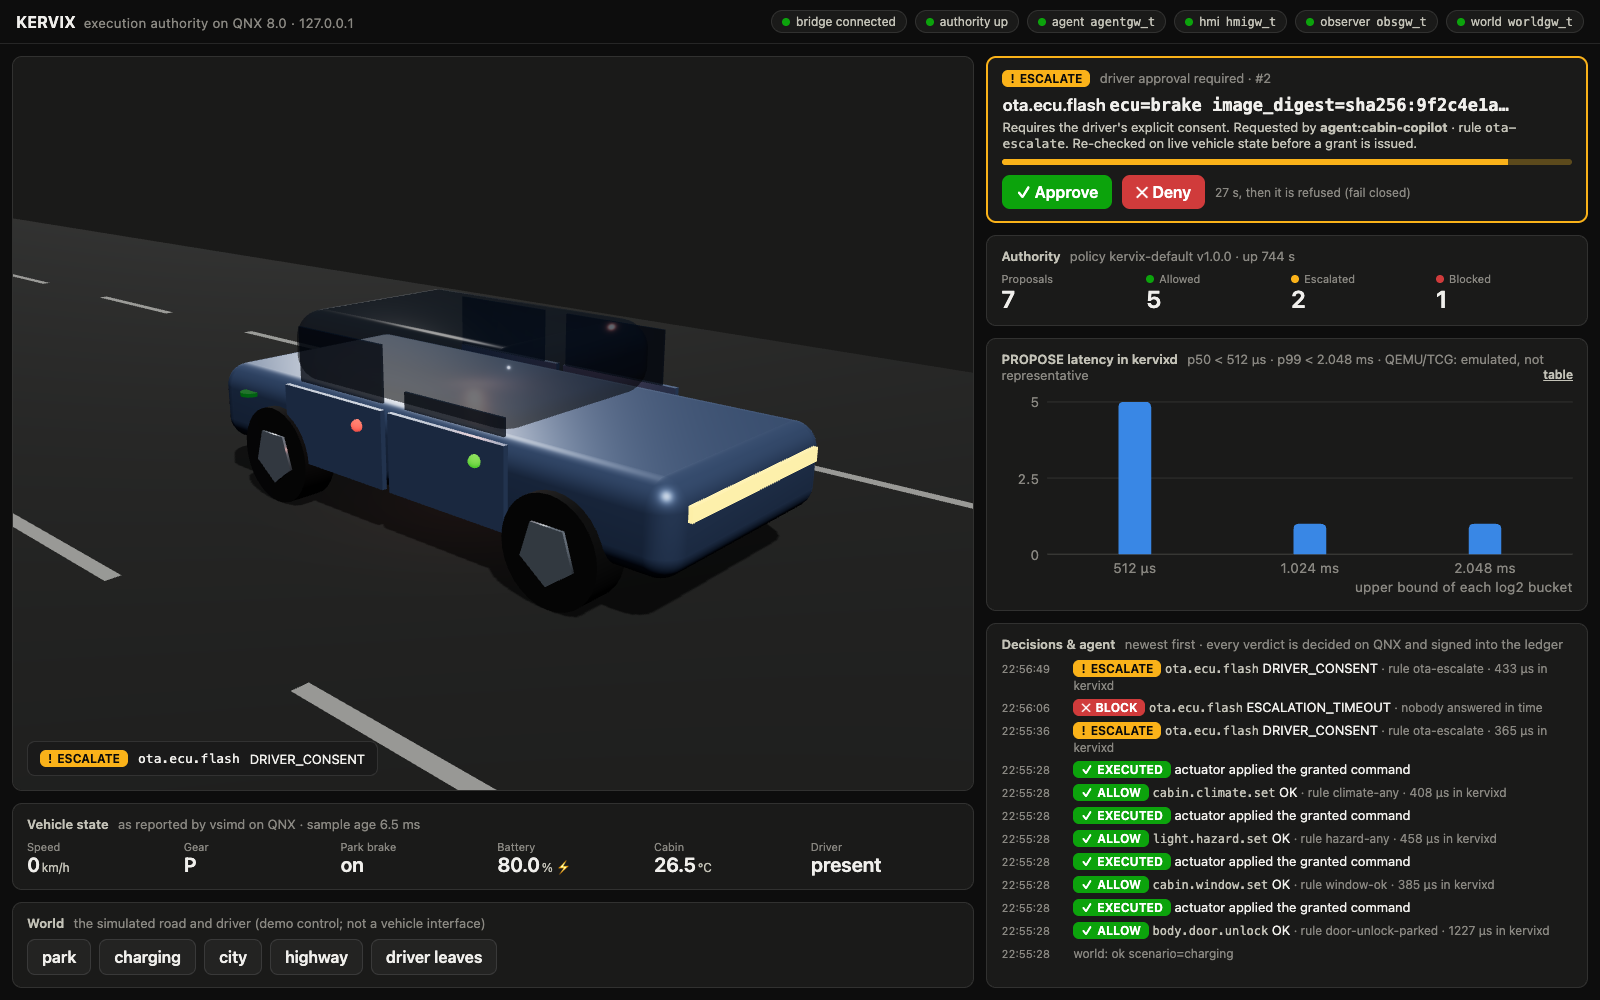
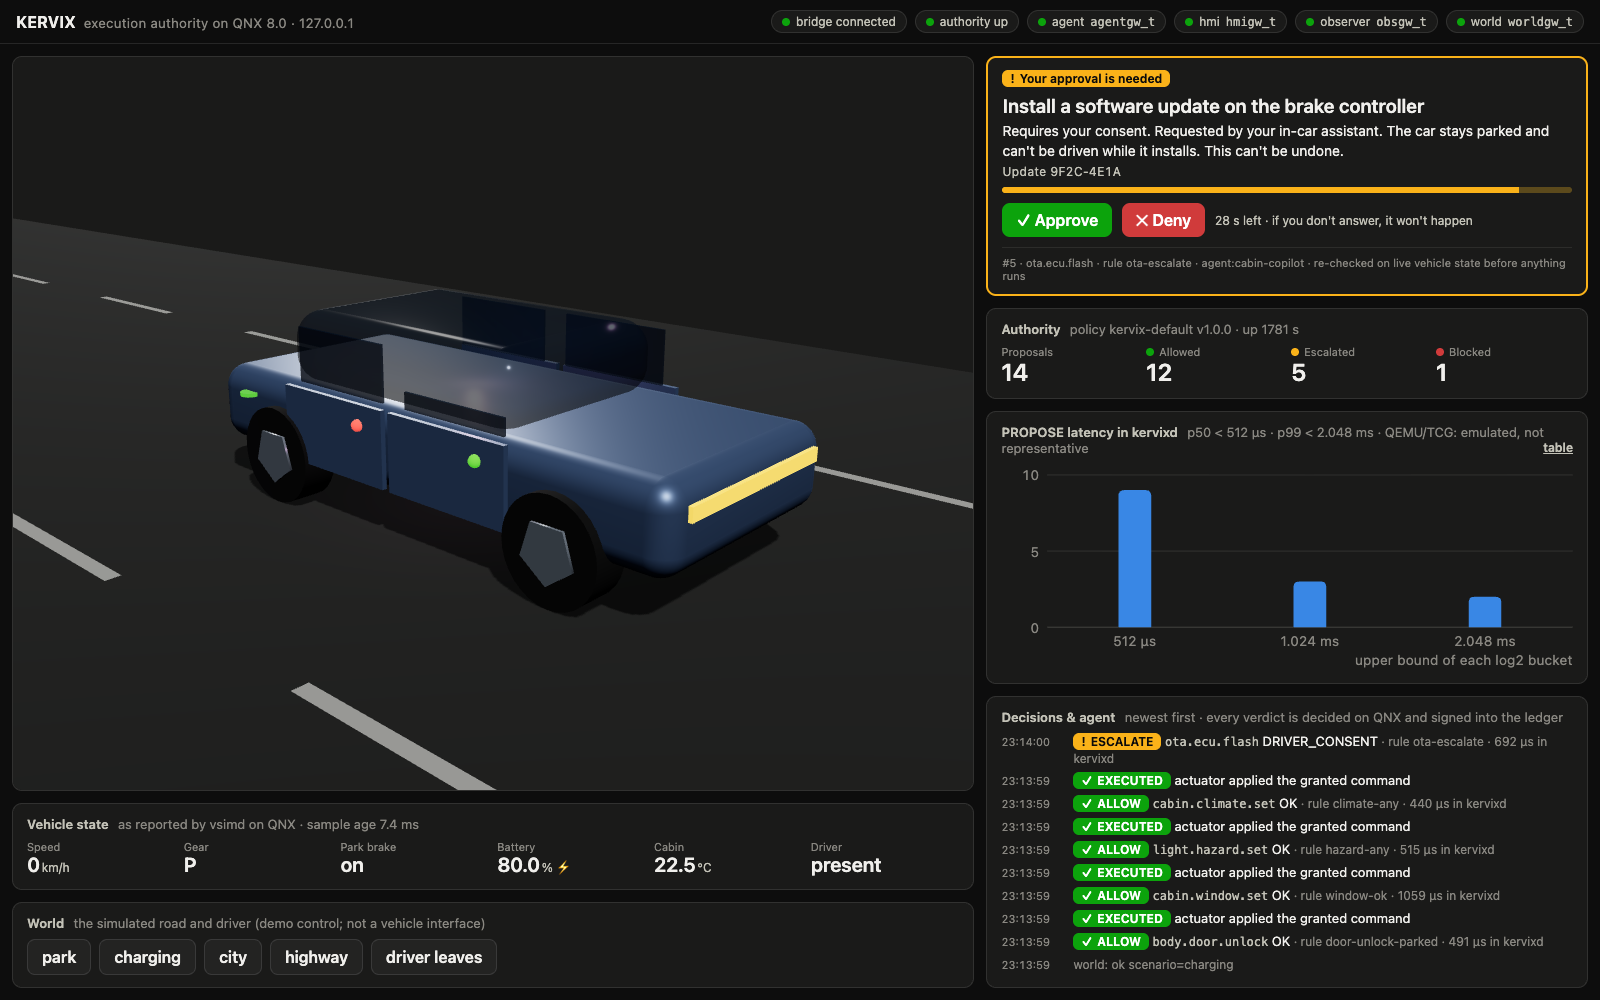
dashboard: driver-focused approval card — second person, plain action, consequence, short update reference
'Install a software update on the brake controller. Requires your consent. Requested by your
in-car assistant. The car stays parked and can't be driven while it installs. This can't be
undone. Update 9F2C-4E1A' instead of 'ota.ecu.flash ecu=brake image_digest=sha256:9f2c...' and
'Requires the driver's explicit consent'. System details move to a muted footer. Every catalog
action and escalating reason has driver wording (tested: no system vocabulary reaches the driver).
README / screenshots recaptured live against QNX.

diff --git a/host/dashboard/src/driverText.ts b/host/dashboard/src/driverText.ts
@@ -1,0 +1,99 @@
+// What the DRIVER reads. The system's vocabulary (action ids, rule ids, reason
+// codes, digests) is right for the ledger and the operator, wrong for a person
+// at the wheel: this turns a pending escalation into second-person, plain
+// language with the consequence spelled out. Pure functions, unit-tested.
+import catalog from "../../shared/catalog.gen.json" with { type: "json" };
+
+type Params = Record<string, unknown>;
+export type DriverText = {
+  /** what would happen, e.g. "Install a software update on the brake controller" */
+  action: string;
+  /** why you are being asked, second person */
+  why: string;
+  /** what it means for you: consequences, irreversibility */
+  consequence: string | null;
+  /** who asked, in your terms */
+  requester: string;
+  /** a short, readable reference instead of a 64-hex digest, e.g. "9F2C-4E1A" */
+  reference: string | null;
+};
+
+const ECU: Record<string, string> = {
+  brake: "brake controller",
+  powertrain: "powertrain controller",
+  adas: "driver-assistance system",
+  bms: "battery management system",
+  infotainment: "infotainment system",
+};
+const SIDE: Record<string, string> = { front_left: "front-left", front_right: "front-right", rear_left: "rear-left", rear_right: "rear-right" };
+const RECIPIENT: Record<string, string> = {
+  emergency_contact: "your emergency contact",
+  fleet_operator: "your fleet operator",
+  roadside_assist: "roadside assistance",
+};
+
+function duration(s: number): string {
+  if (s % 3600 === 0) return `${s / 3600} hour${s === 3600 ? "" : "s"}`;
+  if (s >= 60 && s % 60 === 0) return `${s / 60} minute${s === 60 ? "" : "s"}`;
+  return `${s} seconds`;
+}
+
+/** "sha256:9f2c4e1a…" -> "9F2C-4E1A": enough to tell two updates apart, nothing to decode. */
+export function shortRef(digest: unknown): string | null {
+  const m = /^(?:sha256:)?([0-9a-f]{8})[0-9a-f]*$/i.exec(String(digest ?? ""));
+  return m ? `${m[1].slice(0, 4)}-${m[1].slice(4, 8)}`.toUpperCase() : null;
+}
+
+function actionText(action: string, p: Params): string {
+  switch (action) {
+    case "ota.ecu.flash": return `Install a software update on the ${ECU[String(p.ecu)] ?? "vehicle"}`;
+    case "chassis.brake.calibration.write": return `Change the ${ECU[String(p.ecu)] ?? "brake"} calibration`;
+    case "diag.dtc.clear": return `Clear the stored fault codes of the ${ECU[String(p.ecu)] ?? "vehicle"}`;
+    case "telematics.location.share": return `Share your car's location with ${RECIPIENT[String(p.recipient)] ?? "someone"} for ${duration(Number(p.duration_s ?? 0))}`;
+    case "adas.acc.set_speed": return `Set cruise control to ${p.target_kph} km/h`;
+    case "cabin.window.set": return Number(p.pos_pct) >= 100 ? `Open the ${SIDE[String(p.window)] ?? ""} window fully` : `Open the ${SIDE[String(p.window)] ?? ""} window to ${p.pos_pct} %`;
+    case "cabin.climate.set": return `Set the cabin to ${(Number(p.temp_dc) / 10).toFixed(1)} °C`;
+    case "body.door.unlock": return `Unlock the ${SIDE[String(p.door)] ?? ""} door`;
+    case "light.hazard.set": return p.on ? "Turn on the hazard lights" : "Turn off the hazard lights";
+    case "battery.charge_limit.set": return `Charge the battery up to ${p.pct} %`;
+    case "vehicle.immobilizer.engage": return "Immobilize the car (it cannot be driven until released)";
+    default: {
+      const a = catalog.actions.find((x) => x.name === action);
+      return a ? a.summary.replace(/\.$/, "") : action;
+    }
+  }
+}
+
+const WHY: Record<string, string> = {
+  DRIVER_CONSENT: "Requires your consent.",
+  WINDOW_HIGH_SPEED: "You're driving fast; a wide-open window needs your OK.",
+  SPEED_DELTA_LARGE: "That's a big change from your current cruise speed.",
+  DRIVER_ABSENT: "This needs you in the driver's seat.",
+};
+
+function consequenceText(action: string): string | null {
+  const a = catalog.actions.find((x) => x.name === action);
+  const parts: string[] = [];
+  if (action === "ota.ecu.flash") parts.push("The car stays parked and can't be driven while it installs.");
+  if (action === "vehicle.immobilizer.engage") parts.push("You won't be able to drive until it is released.");
+  if (action === "telematics.location.share") parts.push("You can stop sharing at any time.");
+  if (a?.irreversibility === "one_way_consequential" || a?.irreversibility === "one_way_terminal") parts.push("This can't be undone.");
+  return parts.length ? parts.join(" ") : null;
+}
+
+function requesterText(actor: string): string {
+  if (actor.startsWith("agent:")) return "your in-car assistant";
+  if (actor.startsWith("hmi:") || actor.startsWith("driver")) return "you";
+  return actor;
+}
+
+export function driverText(intent: { action: string; actor: string; params: Params }, reason: string, reasonText = ""): DriverText {
+  const digest = Object.entries(intent.params ?? {}).find(([, v]) => typeof v === "string" && v.startsWith("sha256:"));
+  return {
+    action: actionText(intent.action, intent.params ?? {}),
+    why: WHY[reason] ?? (reasonText || "Requires your consent."),
+    consequence: consequenceText(intent.action),
+    requester: requesterText(intent.actor ?? ""),
+    reference: digest ? shortRef(digest[1]) : null,
+  };
+}

diff --git a/host/dashboard/src/panels.tsx b/host/dashboard/src/panels.tsx
@@ -1,5 +1,6 @@
 import { useEffect, useState } from "react";
 
+import { driverText } from "./driverText.ts";
 import { GEAR, denseHistogram, fmtParams, type Escalation, type FeedEvent, type GwMsg, type Stats, type Tel } from "./model.ts";
 
 // ---------------------------------------------------------------- verdicts
@@ -63,18 +64,20 @@ export function EscalationCard({ items, receivedAt, onResolve }: { items: Escala
     await onResolve(e.escalation_id, approve);
     setBusy(null);
   };
+  const t = driverText(e.intent, e.reason, e.reason_text);
+  const secs = Math.ceil(left / 1000);
   return (
-    <div className="card esc" role="alertdialog" aria-label="Driver approval required">
+    <div className="card esc" role="alertdialog" aria-label="Your approval is needed">
       <h2>
-        <Badge v="ESCALATE" /> <span className="sub">driver approval required · #{e.escalation_id}{items.length > 1 ? ` · ${items.length - 1} more waiting` : ""}</span>
+        <span className="badge ESCALATE"><span aria-hidden>!</span>Your approval is needed</span>
+        {items.length > 1 && <span className="sub"> · {items.length - 1} more waiting</span>}
       </h2>
-      <div className="what">
-        {e.intent.action} <code>{fmtParams(e.intent.params)}</code>
-      </div>
+      <div className="what">{t.action}</div>
       <div className="why">
-        {e.reason_text} Requested by <b>{e.intent.actor}</b> · rule <code>{e.rule}</code>. Re-checked on live vehicle state before a grant is issued.
+        {t.why} Requested by {t.requester}.{t.consequence ? ` ${t.consequence}` : ""}
       </div>
-      <div className="meter" title={`${(left / 1000).toFixed(0)} s left`}>
+      {t.reference && <div className="ref">Update {t.reference}</div>}
+      <div className="meter" title={`${secs} s left`}>
         <div style={{ width: `${Math.min(100, (left / total) * 100)}%` }} />
       </div>
       <div className="actions">
@@ -84,9 +87,10 @@ export function EscalationCard({ items, receivedAt, onResolve }: { items: Escala
         <button className="btn deny" disabled={busy !== null} onClick={() => act(false)}>
           ✕ Deny
         </button>
-        <span className="meta" style={{ alignSelf: "center", color: "var(--ink-muted)", fontSize: 12 }}>
-          {(left / 1000).toFixed(0)} s, then it is refused (fail closed)
-        </span>
+        <span className="countdown">{secs} s left · if you don't answer, it won't happen</span>
+      </div>
+      <div className="tech">
+        #{e.escalation_id} · {e.intent.action} · rule {e.rule} · {e.intent.actor} · re-checked on live vehicle state before anything runs
       </div>
     </div>
   );

diff --git a/host/dashboard/test/driverText.test.ts b/host/dashboard/test/driverText.test.ts
@@ -1,0 +1,38 @@
+import assert from "node:assert/strict";
+import { test } from "node:test";
+
+import catalog from "../../shared/catalog.gen.json" with { type: "json" };
+import { driverText, shortRef } from "../src/driverText.ts";
+
+test("the OTA request reads as a driver would want it", () => {
+  const t = driverText(
+    { action: "ota.ecu.flash", actor: "agent:cabin-copilot", params: { ecu: "brake", image_digest: "sha256:9f2c4e1ab07d3c58e6f1a2b4c8d0e7f3a5b6c9d1e2f4a7b8c0d3e5f6a1b2c4d7" } },
+    "DRIVER_CONSENT", "Requires the driver's explicit consent.");
+  assert.equal(t.action, "Install a software update on the brake controller");
+  assert.equal(t.why, "Requires your consent.");
+  assert.equal(t.requester, "your in-car assistant");
+  assert.equal(t.reference, "9F2C-4E1A");
+  assert.match(String(t.consequence), /stays parked.*can't be undone/);
+});
+
+test("second person everywhere, no system vocabulary", () => {
+  const params: Record<string, Record<string, unknown>> = {
+    "cabin.climate.set": { temp_dc: 215 }, "cabin.window.set": { window: "rear_left", pos_pct: 100 }, "body.door.unlock": { door: "front_left" },
+    "light.hazard.set": { on: true }, "adas.acc.set_speed": { target_kph: 125 }, "battery.charge_limit.set": { pct: 90 },
+    "telematics.location.share": { recipient: "fleet_operator", duration_s: 3600 }, "diag.dtc.clear": { ecu: "powertrain" },
+    "vehicle.immobilizer.engage": {}, "chassis.brake.calibration.write": { ecu: "brake", blob_digest: "sha256:" + "ab".repeat(32) },
+    "ota.ecu.flash": { ecu: "bms", image_digest: "sha256:" + "01".repeat(32) },
+  };
+  for (const a of catalog.actions) {
+    for (const reason of ["DRIVER_CONSENT", "WINDOW_HIGH_SPEED", "SPEED_DELTA_LARGE"]) {
+      const t = driverText({ action: a.name, actor: "agent:x", params: params[a.name] ?? {} }, reason);
+      const all = [t.action, t.why, t.consequence ?? ""].join(" ");
+      assert.doesNotMatch(all, /sha256|_|\bdriver's\b|\bthe driver\b|[a-z]+\.[a-z]+\.[a-z]+/i, `${a.name}: ${all}`);
+    }
+  }
+  assert.equal(driverText({ action: "telematics.location.share", actor: "agent:x", params: { recipient: "fleet_operator", duration_s: 3600 } }, "DRIVER_CONSENT").action,
+    "Share your car's location with your fleet operator for 1 hour");
+  assert.equal(driverText({ action: "cabin.window.set", actor: "agent:x", params: { window: "rear_left", pos_pct: 100 } }, "WINDOW_HIGH_SPEED").why,
+    "You're driving fast; a wide-open window needs your OK.");
+  assert.equal(shortRef("nonsense"), null);
+});

diff --git a/host/dashboard/src/styles.css b/host/dashboard/src/styles.css
@@ -67,7 +67,11 @@ button { font: inherit; color: inherit; }
 
 .esc { border: 2px solid var(--warning); }
 .esc .what { font-size: 17px; font-weight: 600; margin: 4px 0; }
-.esc .why { color: var(--ink-2); font-size: 13px; }
+.esc .what { font-size: 19px; }
+.esc .why { color: var(--ink-1); font-size: 14px; line-height: 1.4; }
+.esc .ref { color: var(--ink-2); font-size: 12px; margin-top: 4px; font-variant-numeric: tabular-nums; letter-spacing: 0.04em; }
+.esc .countdown { align-self: center; color: var(--ink-2); font-size: 12px; }
+.esc .tech { margin-top: 10px; padding-top: 8px; border-top: 1px solid var(--grid); color: var(--ink-muted); font-size: 11px; }
 .esc .actions { display: flex; gap: 10px; margin-top: 10px; }
 .btn { border-radius: 8px; padding: 8px 14px; border: 1px solid var(--ring); background: var(--surface-2); cursor: pointer; font-weight: 600; }
 .btn:hover { border-color: var(--ink-muted); }

diff --git a/README.md b/README.md
@@ -15,9 +15,9 @@ AI agents *propose* vehicle actions. Kervix decides in microseconds, on live veh
 | ![Procedural 3D twin: front-left door unlocked (green), front-left window down, hazards on, charging](docs/images/twin.png) | ![The twin during an approved OTA flash: body glows, halo turns, toast shows ALLOW HUMAN_APPROVED](docs/images/twin-ota-approved.png) |
 | The procedural 3D twin renders **telemetry, never requests**. An action shows up only after Kervix allowed it, the actuator applied it, and the simulator published the new state. Here: front-left door unlocked (green light), its window lowered, hazards on, charge port glowing. | The driver approved; the agent's waiting request received a fresh grant and executed. The vehicle reports the flash in progress (blue glow, turning halo). The approval is a signed capsule naming the human approver. |
 
-**The driver's on-screen notification.** Actions that need a human are pushed to the HMI by a kernel pulse (no polling). They are re-checked on live vehicle state before any grant is issued, and refused if nobody answers in time:
+**The driver's on-screen notification.** Actions that need a human are pushed to the HMI by a kernel pulse (no polling). The driver reads them in their own terms: what would happen, why they are asked, what it means for them, and that not answering means no. Rule ids, action ids and digests stay in the footer and the signed ledger. On approval, the action is re-checked on live vehicle state before any grant is issued:
 
-![Driver approval card: ESCALATE ota.ecu.flash, requested by agent:cabin-copilot, Approve / Deny, countdown to fail-closed](docs/images/driver-approval.png)
+![Driver approval card: "Your approval is needed. Install a software update on the brake controller. Requires your consent. Requested by your in-car assistant. The car stays parked and can't be driven while it installs. This can't be undone." Approve / Deny, countdown](docs/images/driver-approval.png)
 
 If the authority itself dies, nothing moves: [AUTHORITY OFFLINE · ACTUATION LOCKED](docs/evidence/dashboard-qnx-qemu-authority-offline.png), until `kx-supervisor` brings it back (≈ 0.1 s under emulation) with the restart recorded in the signed ledger.
 

diff --git a/docs/03-architecture.md b/docs/03-architecture.md
@@ -565,7 +565,7 @@ Out of scope: physical attacks, a kernel compromise, a compromised build chain, 
   - Hazards blink, the charge port glows while charging, the cabin light follows the HVAC setpoint, a halo pulses during an OTA flash, a red ring marks the immobilizer, and a beacon shows location sharing.
 - **Panels:**
   - Gateway chips show each role's secpol type.
-  - The escalation card has **Approve / Deny** and a fail-closed countdown.
+  - The escalation card speaks to the driver in the second person (`src/driverText.ts`): the action in plain words ("Install a software update on the brake controller"), why they are asked ("Requires your consent."), the consequence from the catalog's irreversibility ("This can't be undone."), a short update reference (`9F2C-4E1A`) instead of the digest, **Approve / Deny** and a fail-closed countdown. Rule, action id and actor stay in a muted footer for operators.
   - Verdict tiles use the status colors with icon + label.
   - The PROPOSE latency histogram (log2 buckets from `/dev/kervix/stats`) has a hover tooltip and a table view, and is labelled *emulated, not representative* on QEMU.
   - The feed interleaves the driver, the agent's words and reasoning summaries, its proposals, Kervix's verdicts and the actuator's results.
